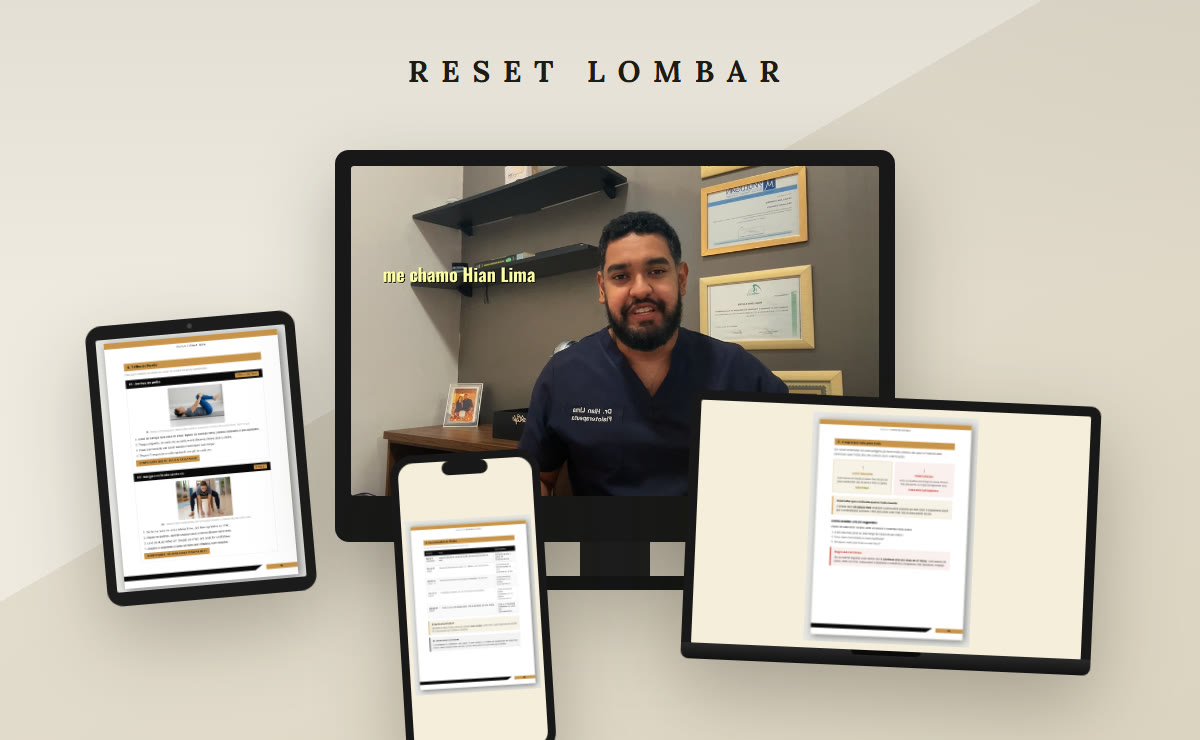
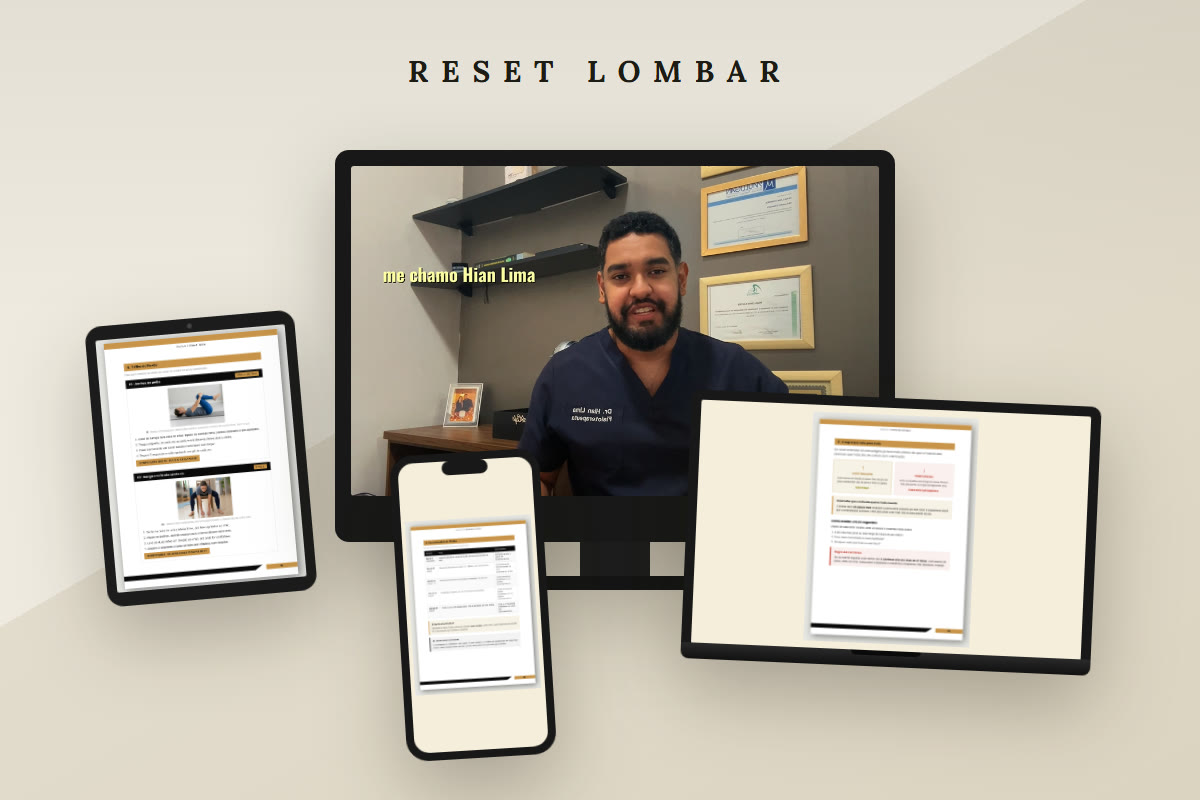
Corrige cortes nos mockups de dispositivos e ajusta CTA e bonus-total
Mobile: o video no tablet estava com crop cortando o texto "Hian Lima";
trocado para exibir o video inteiro (sem cortar). Desktop: o celular
da composicao estava sendo cortado por causa da altura do canvas,
corrigido aumentando a area de renderizacao.

Tambem: o botao "Preciso aliviar a dor agora" agora vai direto pro
checkout (Cakto) em vez de rolar ate a secao de oferta, e o valor
total dos bonus (R$145,00) ganhou um risco vermelho pra deixar claro
que nao e esse o valor cobrado.

diff --git a/index.html b/index.html
@@ -483,7 +483,7 @@ h1,h2,h3{ font-family:var(--serif); color:var(--black); margin:0; font-weight:70
   text-align:center; padding:22px 24px; border-radius:14px;
   font-family:var(--ui); font-weight:800; letter-spacing:.01em; text-transform:uppercase; font-size:1.05rem;
 }
-.bonus-total span{ color:var(--yellow); }
+.bonus-total span{ color:var(--yellow); text-decoration:line-through; text-decoration-color:#ff6161; text-decoration-thickness:2px; }
 @media(min-width:640px){ .bonus-total{ font-size:1.6rem; padding:28px 36px; } }
 
 /* ============ OFERTA ============ */
@@ -1336,7 +1336,7 @@ footer .flegal{ font-family:var(--ui); font-size:.7rem; margin-top:16px; color:#
     </div>
 
     <div class="devices-cta reveal">
-      <a href="#oferta" class="btn btn-primary btn-lg" data-cta>Preciso aliviar a dor agora!!! <span class="arrow">→</span></a>
+      <a href="https://pay.cakto.com.br/35ix5ws_1044130" class="btn btn-primary btn-lg btn-pulse" data-cta>Preciso aliviar a dor agora!!! <span class="arrow">→</span></a>
     </div>
   </div>
 </section>
